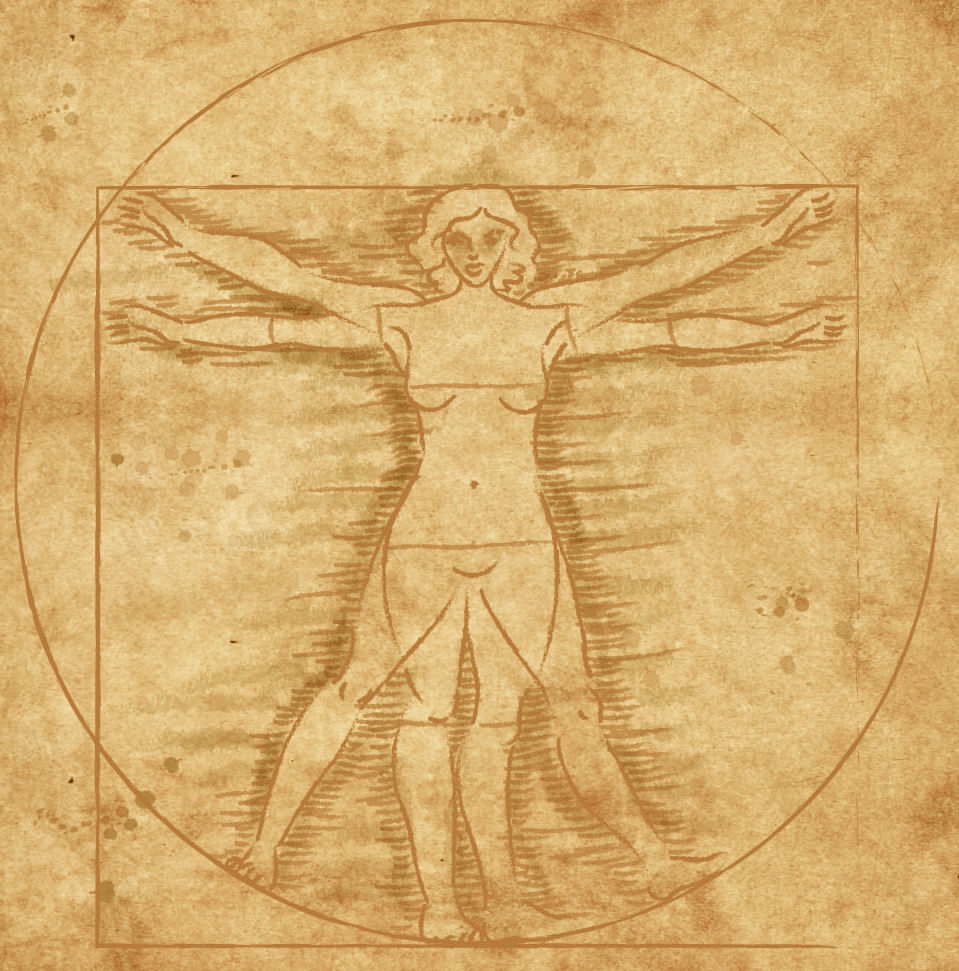
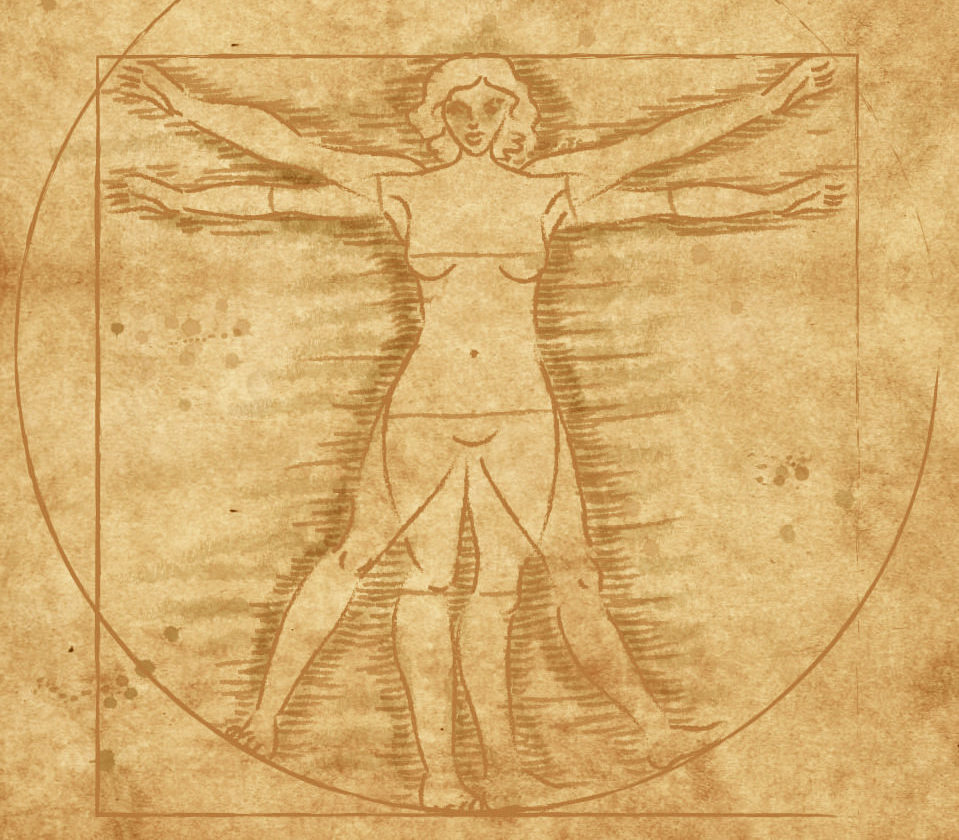
Vitruvian woman in place, fixed modal on login

diff --git a/client/src/components/Nav/index.js b/client/src/components/Nav/index.js
@@ -24,8 +24,9 @@ class Nav extends React.Component {
         $("#loginModal").modal("show");
     }
     handleLoginClose() {
-        $("#loginModal").modal("hide");
-    }
+        $("#mimodal").removeClass('fade').modal('hide')
+        console.log("fired")
+        }
 
 
     render() {
@@ -38,7 +39,8 @@ class Nav extends React.Component {
                                 <nav className="navbar navbar-expand-lg navbar-light">
                                     <a className="navbar-brand" id="loginLink" href="#" onClick={this.handleLoginShow}>Login</a>
                                     <a className="navbar-brand" id="signUpLink" href="#" onClick={this.handleSignUpShow}>Sign Up</a>
-                                    <Link to="/VitruvianWoman" className={window.location.pathname === "/VitruvianWoman" ? "nav-link active" : "nav-link"}>Vitruvian Woman</Link>
+                                    <Link to="/VitruvianWoman" className={window.location.pathname === "/VitruvianWoman" ? "nav-link active" : "nav-link"}> Woman</Link>
+                                    <Link to="/" className={window.location.pathname === "/" ? "nav-link active" : "nav-link"}> Man</Link>
                                 </nav>
                                 <Login />
                                 <SignUp />
@@ -46,9 +48,17 @@ class Nav extends React.Component {
                         )
                         :
                         (
+                            <>
                             <nav className="navbar navbar-expand-lg navbar-light">
-                                <h2>Welcome, {context.user.email}</h2>
+                                <h2 style={{fontSize : 23}}>Welcome, {context.user.email}</h2>
+                                <a className="navbar-brand" id="loginLink" href="/user" onClick={this.handleLoginShow}>Your Page</a>
+                                <a className="navbar-brand" id="loginLink" href="/logout" onClick={this.handleLoginShow}>Logout</a>  
+                                <Link to="/VitruvianWoman" className={window.location.pathname === "/VitruvianWoman" ? "nav-link active" : "nav-link"}> Woman</Link>
+                                    <Link to="/" className={window.location.pathname === "/" ? "nav-link active" : "nav-link"}> Man</Link>
+                              
                             </nav>
+                            
+                            </>
                         )
                 }}
             </UserContext.Consumer>

diff --git a/client/src/components/VitruvianWoman/index.js b/client/src/components/VitruvianWoman/index.js
@@ -1,14 +1,28 @@
 import React from "react"
 import "./style.css";
-// import vitruvianWoman from "./vitruvianWoman.jpg";
+import vitruvianWoman from "./vitruvianWoman.jpg";
 
 
     function VitruvianWoman() {
         return (
-<>
-<img alt="Smiley face" height="42" width="42" src="https://img.lovepik.com/element/40042/9108.png_1200.png"/>
-        <p>zvasdfasdfasdfasdf</p>
-        </>
+
+            <div className="content">
+
+<img id="woman" alt="vitruvianWoman" height="1300" width="1440" src={vitruvianWoman}/>
+        
+<svg version="1.1" id="svg1569" width={1440} height={1300}>
+  <defs id="defs1573">
+    <filter style={{colorinterpolationfilters: "srgb"}} id="filter2138" x="-0.20555801" width="1.411116" y="-0.44292858" height="1.8858572">
+      <feGaussianBlur stdDeviation="26.011342" id="feGaussianBlur2140" />
+    </filter>
+    <filter style={{colorinterpolationfilters: "srgb"}} id="filter2150" x="-0.22098462" width="1.4419692" y="-0.47879999" height="1.9576">
+      <feGaussianBlur stdDeviation="24.101076" id="feGaussianBlur2152" />
+    </filter>
+  </defs>
+  <path style={{fill: '#ca7e00', stroke: '#000000', strokeWidth: 1, strokeLinecap: 'butt', strokeLinejoin: 'miter', strokeOpacity: 1, fillOpacity: '0.80219781', filter: 'url(#filter2150)'}} d="m 582.22453,158.57447 30.20185,63.75946 16.77881,46.98066 85.5719,1.67788 92.28343,-1.67788 21.81245,-48.65854 15.10092,-70.47098 -124.16316,1.67788 z" id="path2122" />
+  <path style={{fill: '#ca7e00', stroke: '#000000', strokeWidth: 1, strokeLinecap: 'butt', strokeLinejoin: 'miter', strokeOpacity: 1, fillOpacity: '0.80219781', filter: 'url(#filter2138)'}} d="m 827.19509,422.00171 33.55761,92.28343 -102.35071,30.20185 -31.87973,3.35576 -46.98066,-3.35576 -43.62489,-6.71152 -40.26913,-15.10093 -26.84609,-20.13456 -11.74516,-15.10093 10.06728,-35.23549 18.45668,-25.16821 10.06729,-20.13456 68.7931,6.71152 55.37005,-6.71152 43.6249,3.35576 z" id="path2128" />
+</svg>
+</div>
         )
 
 }

diff --git a/client/src/components/Login/index.js b/client/src/components/Login/index.js
@@ -6,6 +6,7 @@ import axios from "axios";
 import "./style.css";
 // import UserContext from "./context/UserContext";
 import UserPage from "../UserPage";
+const $ = window.$;
 
 
 class Login extends React.Component {
@@ -35,16 +36,17 @@ class Login extends React.Component {
                 }
                 console.log(user)
                 this.context.setUser(res);
-                // this.props.history.push("/");
+                this.props.history.push("/");
                 axios.post("/api/authenticate", user)
                     .then(data => {
                         console.log(data)
-
                     }).catch(err => {
                         console.log("Err", err.message)
                     })
             });
         }
+        $("#loginModal").removeClass('fade').modal('hide')
+
     }
 
     render() {

diff --git a/client/src/components/SignUp/index.js b/client/src/components/SignUp/index.js
@@ -115,7 +115,7 @@ class SignUp extends React.Component {
                                             value={this.state.passwordConfirm}
                                             onChange={this.handleChange} />
                                     </div>
-                                    <button type="submit" className="btn btn-primary">Submit</button>
+                                    <button type="submit" data-dismiss="modal" className="btn btn-primary">Submit</button>
                                 </form>
                             </div>
                             <div className="modal-footer">

diff --git a/client/src/App.js b/client/src/App.js
@@ -28,7 +28,7 @@ class App extends Component {
           <Nav />
           {console.log(user)}
           <Switch>
-            <Route path="/" component={VitruviAnimation} />
+            <Route exact path="/" component={VitruviAnimation} />
             <Route path="/login" component={Login} />
             <Route path="/signup" component={SignUp} />
             <Route exact path="/VitruvianWoman" component={VitruvianWoman} />

diff --git a/client/src/components/VitruvianWoman/style.css b/client/src/components/VitruvianWoman/style.css
@@ -1,0 +1,13 @@
+#woman {
+    position: relative;
+    right: 0;
+    bottom: 0;
+  }
+
+.content {
+    position: absolute;
+    top: 0;
+    margin-top: 40px;
+    width: 100%;
+    z-index: 5;
+  }
